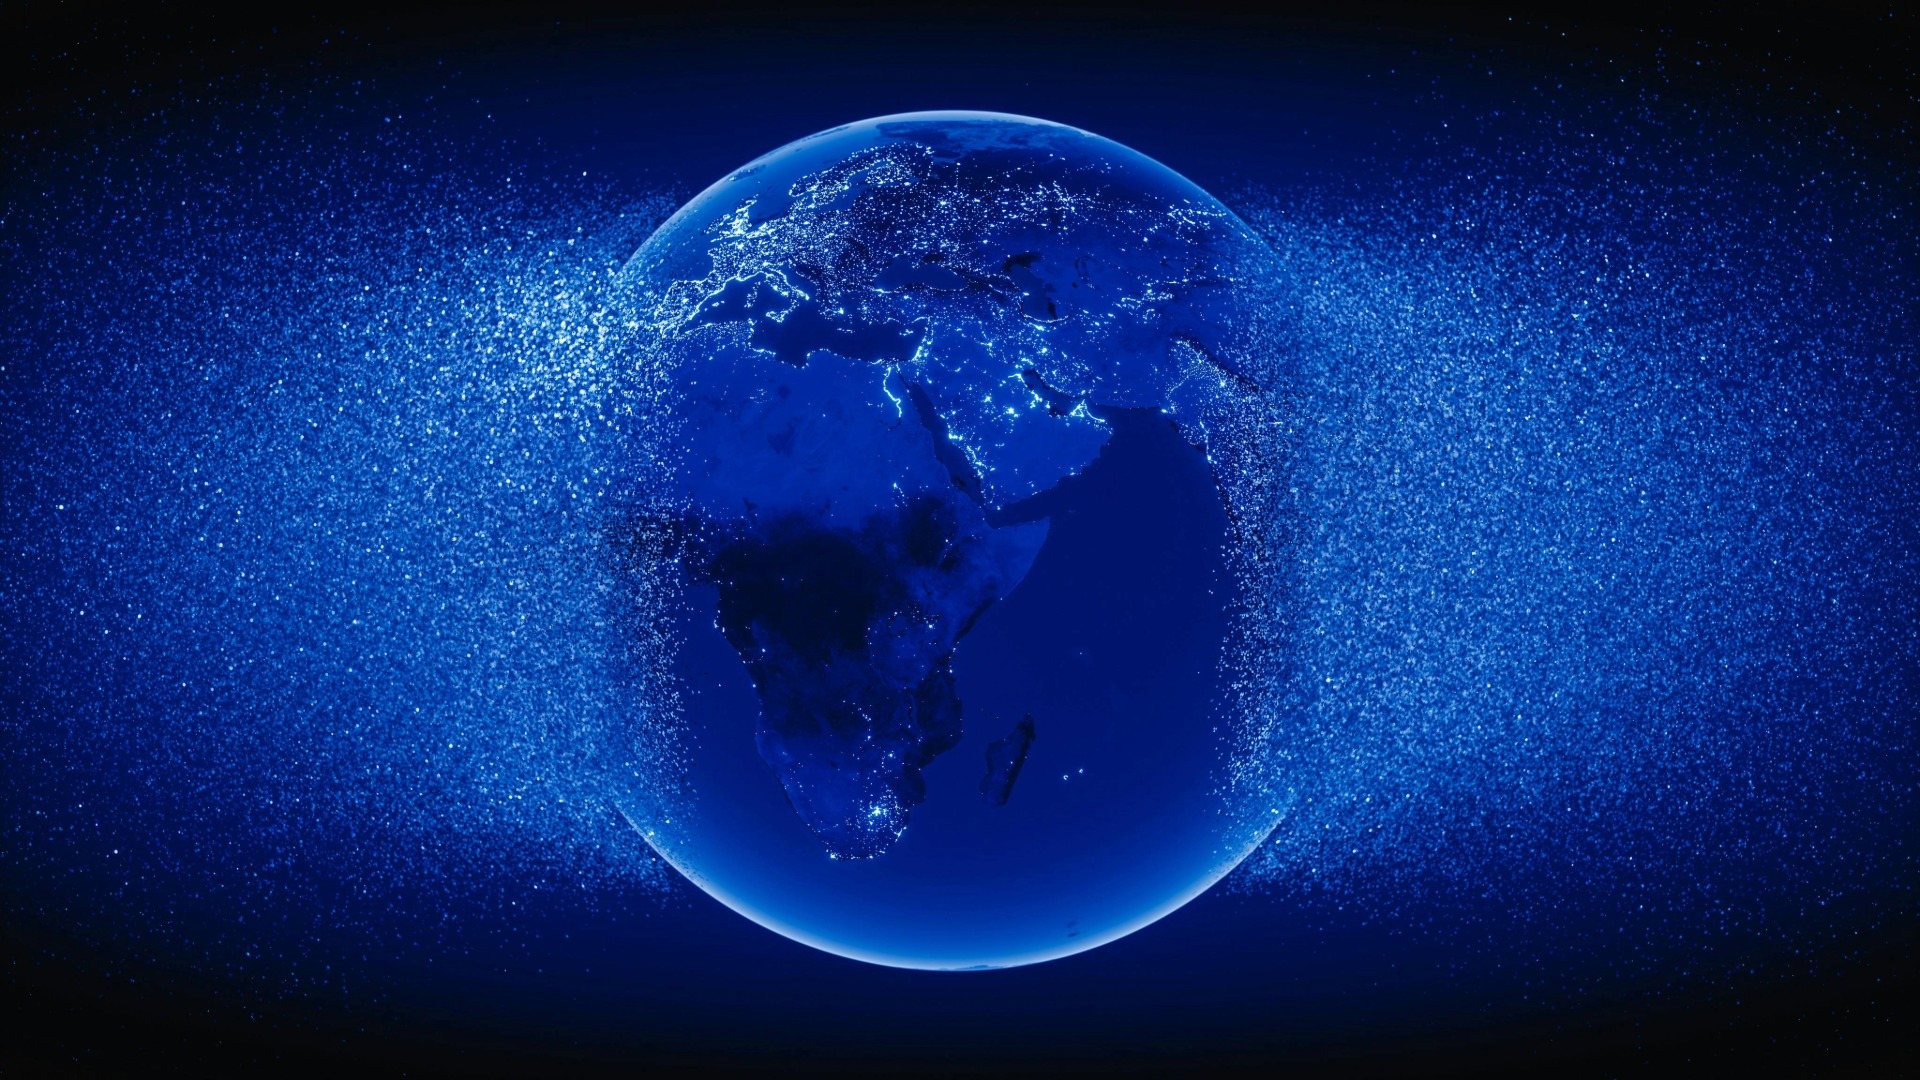
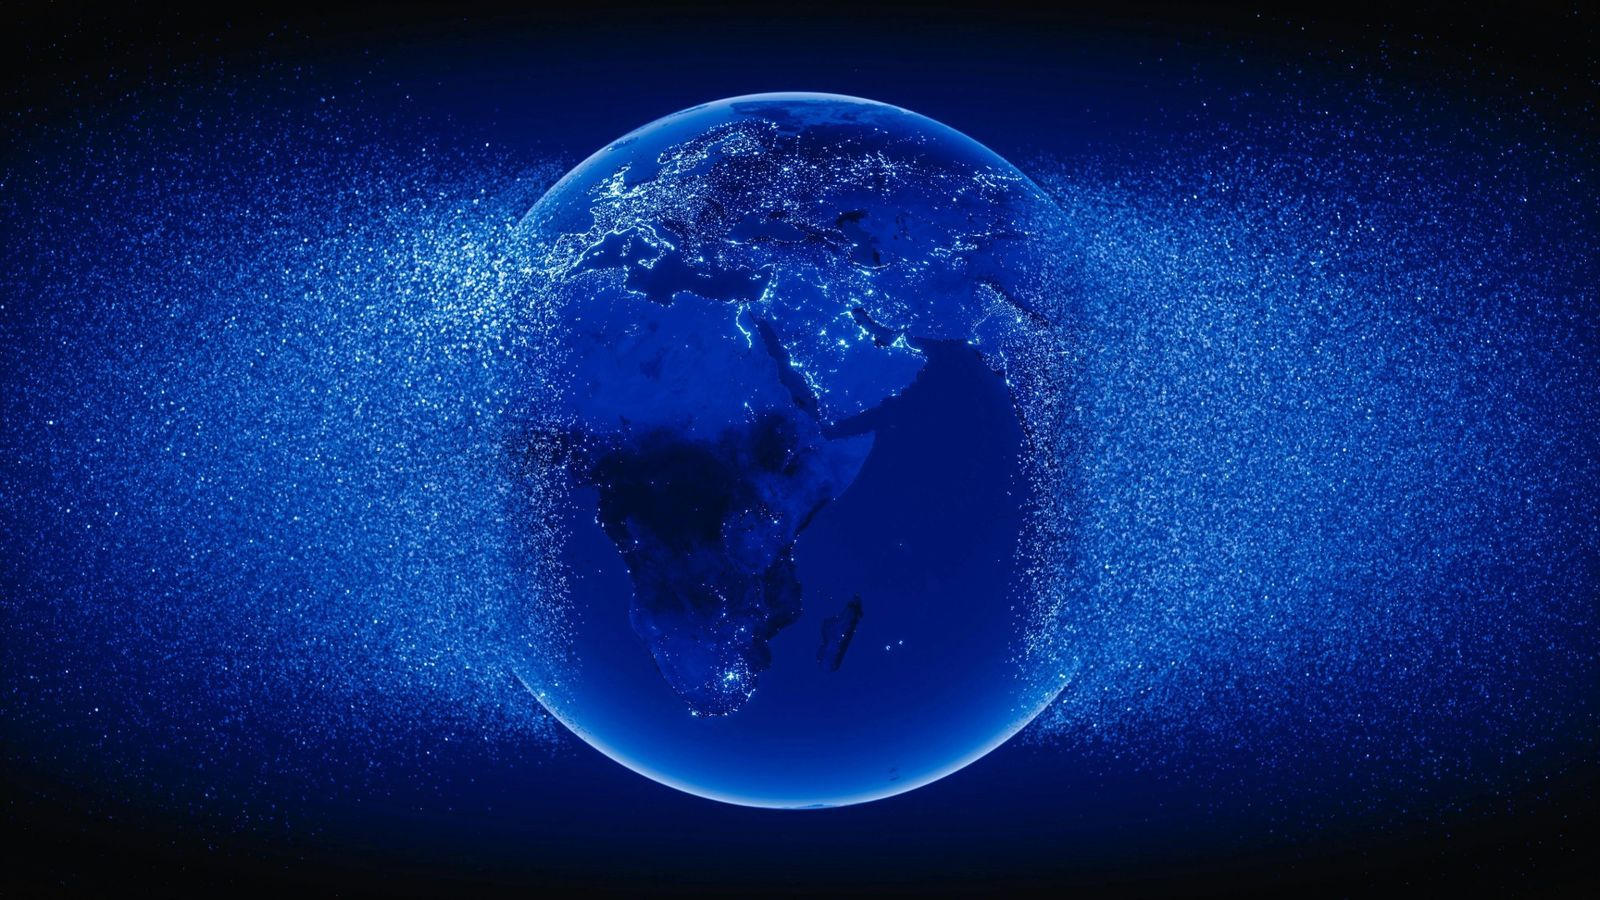
v3.7: hero polish + body type +6pt + footer URL fixes
- Slide 1: removed '86% Ayurvedic' footer line; CTA is now last
  element in the bottom-left content stack
- Slide 2: white overlay panel (bg-white/50 + backdrop-blur)
  behind left-column copy for readability over kitchen image
- Slide 3: black overlay panel (bg-black/30 + backdrop-blur)
  behind left-column copy for readability over beach image
- Slide 2 offer card: '60-day money-back guarantee' bumped +6pt
  (13 -> 19px), color flips to fv-midnight (was white/75)
- Body copy +6pt across 7 components (Problem, Mechanism, Solution
  cascade, Product paragraphs, DoctorTrust subline, Ingredients
  intro, Guarantee tagline). Containers widened where copy needed
  more breathing room (640 -> 720/760).
- Footer URL fixes:
  - The Solution -> https://flowveda.com/the-solution/
  - Help Center -> https://flowveda.com/help
  - Terms label -> 'Terms of Service' -> /terms-of-service

All copy unchanged. All compliance language unchanged.

Changed region(s): [[0.2812, 0.1556, 0.4375, 0.3733]]

diff --git a/components/shop/Hero.tsx b/components/shop/Hero.tsx
@@ -31,13 +31,7 @@ export default function Hero() {
       subheadMaxW: "max-w-[720px]",
       rightVisual: "video",
       ctaLabel: "Start Your 60-Day Awakening",
-      footer: (
-        <>
-          86% Ayurvedic. Clinically studied ingredients.
-          <br />
-          60-day money-back guarantee.
-        </>
-      ),
+      footer: undefined,
       showLeftCTA: true,
     },
     {
@@ -152,7 +146,15 @@ export default function Hero() {
           </div>
 
           {/* Bottom-pinned content stack */}
-          <div className="mt-auto">
+          <div
+            className={`mt-auto ${
+              slide.rightVisual === "product"
+                ? "bg-white/50 backdrop-blur-sm rounded-2xl px-7 py-8 md:px-10 md:py-10 -ml-4 md:-ml-6 max-w-[760px]"
+                : slide.rightVisual === "result"
+                ? "bg-black/30 backdrop-blur-sm rounded-2xl px-7 py-8 md:px-10 md:py-10 -ml-4 md:-ml-6 max-w-[760px]"
+                : ""
+            }`}
+          >
             {/* Headline */}
             <h1
               key={`h1-${index}`}
@@ -290,7 +292,7 @@ export default function Hero() {
               </Link>
 
               {/* Guarantee line */}
-              <p className="font-body text-[13px] font-bold tracking-[0.10em] uppercase text-white/75">
+              <p className="font-body text-[19px] font-bold tracking-[0.10em] uppercase text-fv-midnight">
                 60-day money-back guarantee
               </p>
             </div>

diff --git a/components/shop/Solution.tsx b/components/shop/Solution.tsx
@@ -13,19 +13,19 @@ export default function Solution() {
             </h2>
 
             <div className="space-y-5">
-              <p className="fv-body-lead">
+              <p className="fv-body-lead text-[24px] leading-[1.6]">
                 Most nootropics optimize the conditioned mind.
               </p>
-              <p className="fv-body-lead">
+              <p className="fv-body-lead text-[24px] leading-[1.6]">
                 They help you reach the same results faster.
               </p>
-              <p className="fv-body-lead">
+              <p className="fv-body-lead text-[24px] leading-[1.6]">
                 FlowVeda® helps you step back from the repetition,
               </p>
-              <p className="fv-body-lead">
+              <p className="fv-body-lead text-[24px] leading-[1.6]">
                 recognize the moment before reaction,
               </p>
-              <p className="fv-body-lead font-display font-semibold text-fv-charcoal text-[22px]">
+              <p className="font-display font-semibold text-fv-charcoal text-[28px] leading-[1.45]">
                 and make a better choice.
               </p>
             </div>

diff --git a/components/shop/Product.tsx b/components/shop/Product.tsx
@@ -18,16 +18,16 @@ export default function Product() {
             <h2 className="fv-display mb-6">
               The 60-Day <em>Awakening.</em>
             </h2>
-            <p className="fv-body-lead mb-5">
+            <p className="fv-body-lead mb-5 text-[24px] leading-[1.6]">
               A daily protocol designed to build a baseline of calm, focused awareness.
             </p>
-            <p className="fv-body-lead mb-5 font-display font-semibold text-fv-charcoal text-[20px]">
+            <p className="fv-body-lead mb-5 font-display font-semibold text-fv-charcoal text-[26px]">
               3 capsules per day. 180 capsules total.
             </p>
-            <p className="fv-body-lead mb-8">
+            <p className="fv-body-lead mb-8 text-[24px] leading-[1.6]">
               Most people begin to notice a shift within the first month.
             </p>
-            <p className="font-sub italic text-fv-purple text-[22px] leading-[1.45] mb-10">
+            <p className="font-sub italic text-fv-purple text-[28px] leading-[1.45] mb-10">
               Awareness compounds with consistency.
             </p>
             <CTAButton label="Try Our 60-Day Awakening" />

diff --git a/components/shop/Footer.tsx b/components/shop/Footer.tsx
@@ -23,13 +23,13 @@ export default function Footer() {
         <div className="flex flex-wrap justify-center gap-x-6 gap-y-3 text-[14px]">
           <a href="https://flowveda.com/our-story" className="hover:text-white transition-colors">Our Story</a>
           <a href="https://flowveda.com/mission" className="hover:text-white transition-colors">Our Mission</a>
-          <a href="https://flowveda.com/products/flowveda-60-day-awakening" className="hover:text-white transition-colors">The Solution</a>
+          <a href="https://flowveda.com/the-solution/" className="hover:text-white transition-colors">The Solution</a>
           <a href="https://flowveda.com/ingredients" className="hover:text-white transition-colors">The Ingredients</a>
           <a href="https://flowveda.com/science" className="hover:text-white transition-colors">The Science</a>
-          <a href="https://flowveda.com/help-center" className="hover:text-white transition-colors">Help Center</a>
+          <a href="https://flowveda.com/help" className="hover:text-white transition-colors">Help Center</a>
           <a href="https://flowveda.com/refund-policy" className="hover:text-white transition-colors">Refund Policy</a>
           <a href="https://flowveda.com/privacy-policy" className="hover:text-white transition-colors">Privacy Policy</a>
-          <a href="https://flowveda.com/terms-and-conditions" className="hover:text-white transition-colors">Terms and Conditions</a>
+          <a href="https://flowveda.com/terms-of-service" className="hover:text-white transition-colors">Terms of Service</a>
         </div>
 
         <p className="font-body text-[12px] text-white/40">

diff --git a/components/shop/Problem.tsx b/components/shop/Problem.tsx
@@ -19,13 +19,13 @@ export default function Problem() {
           The modern world is engineered to
           <em className="block mt-2">capture your reaction.</em>
         </h2>
-        <p className="fv-body-lead max-w-[640px] mx-auto">
+        <p className="fv-body-lead max-w-[720px] mx-auto text-[24px] leading-[1.6]">
           Notifications. Pressure. Noise.
         </p>
-        <p className="fv-body-lead max-w-[640px] mx-auto mt-4">
+        <p className="fv-body-lead max-w-[720px] mx-auto mt-4 text-[24px] leading-[1.6]">
           Over time, response becomes automatic.
         </p>
-        <p className="fv-body-lead max-w-[640px] mx-auto mt-4 font-display font-semibold text-[22px] text-fv-charcoal">
+        <p className="max-w-[720px] mx-auto mt-4 font-display font-semibold text-[28px] text-fv-charcoal leading-[1.45]">
           You stop choosing. You start reacting.
         </p>
       </div>

diff --git a/components/shop/Mechanism.tsx b/components/shop/Mechanism.tsx
@@ -21,10 +21,10 @@ export default function Mechanism() {
             Watch what happens
             <em className="block mt-2">in less than a second.</em>
           </h2>
-          <p className="fv-body-lead">
+          <p className="fv-body-lead text-[24px] leading-[1.6]">
             Every reaction travels the same path. Once you see it, a door opens.
           </p>
-          <p className="fv-body-lead mt-4">
+          <p className="fv-body-lead text-[24px] leading-[1.6] mt-4">
             This is not personal failure. This is biology.
           </p>
         </div>

diff --git a/components/shop/DoctorTrust.tsx b/components/shop/DoctorTrust.tsx
@@ -93,7 +93,7 @@ export default function DoctorTrust() {
             <h2 className="fv-display mb-3">
               Trusted by <em>{CLINICIAN_COUNT}+ physicians.</em>
             </h2>
-            <p className="fv-body-lead text-[20px] max-w-[520px]">
+            <p className="fv-body-lead text-[22px] leading-[1.6] max-w-[600px]">
               Doctors independently sharing FlowVeda® with patients. Not paid. Verified.
             </p>
           </div>

diff --git a/components/shop/Guarantee.tsx b/components/shop/Guarantee.tsx
@@ -18,7 +18,7 @@ export default function Guarantee() {
         <h2 className="fv-display mb-8">
           Try it for <em>60 days.</em>
         </h2>
-        <p className="font-display font-semibold text-fv-charcoal text-[24px] leading-[1.4] max-w-[640px] mx-auto">
+        <p className="font-display font-semibold text-fv-charcoal text-[30px] leading-[1.4] max-w-[760px] mx-auto">
           If you do not notice a meaningful shift, get your money back.
         </p>
       </div>

diff --git a/components/shop/Ingredients.tsx b/components/shop/Ingredients.tsx
@@ -66,7 +66,7 @@ export default function Ingredients() {
           <h2 className="fv-display mb-6">
             Ancient formulation. <em>Modern validation.</em>
           </h2>
-          <p className="fv-body-lead">
+          <p className="fv-body-lead text-[24px] leading-[1.6]">
             Eight ingredients, each with a specific role in stress response, cognitive clarity, and sustained awareness. All backed by cited clinical research.
           </p>
         </div>